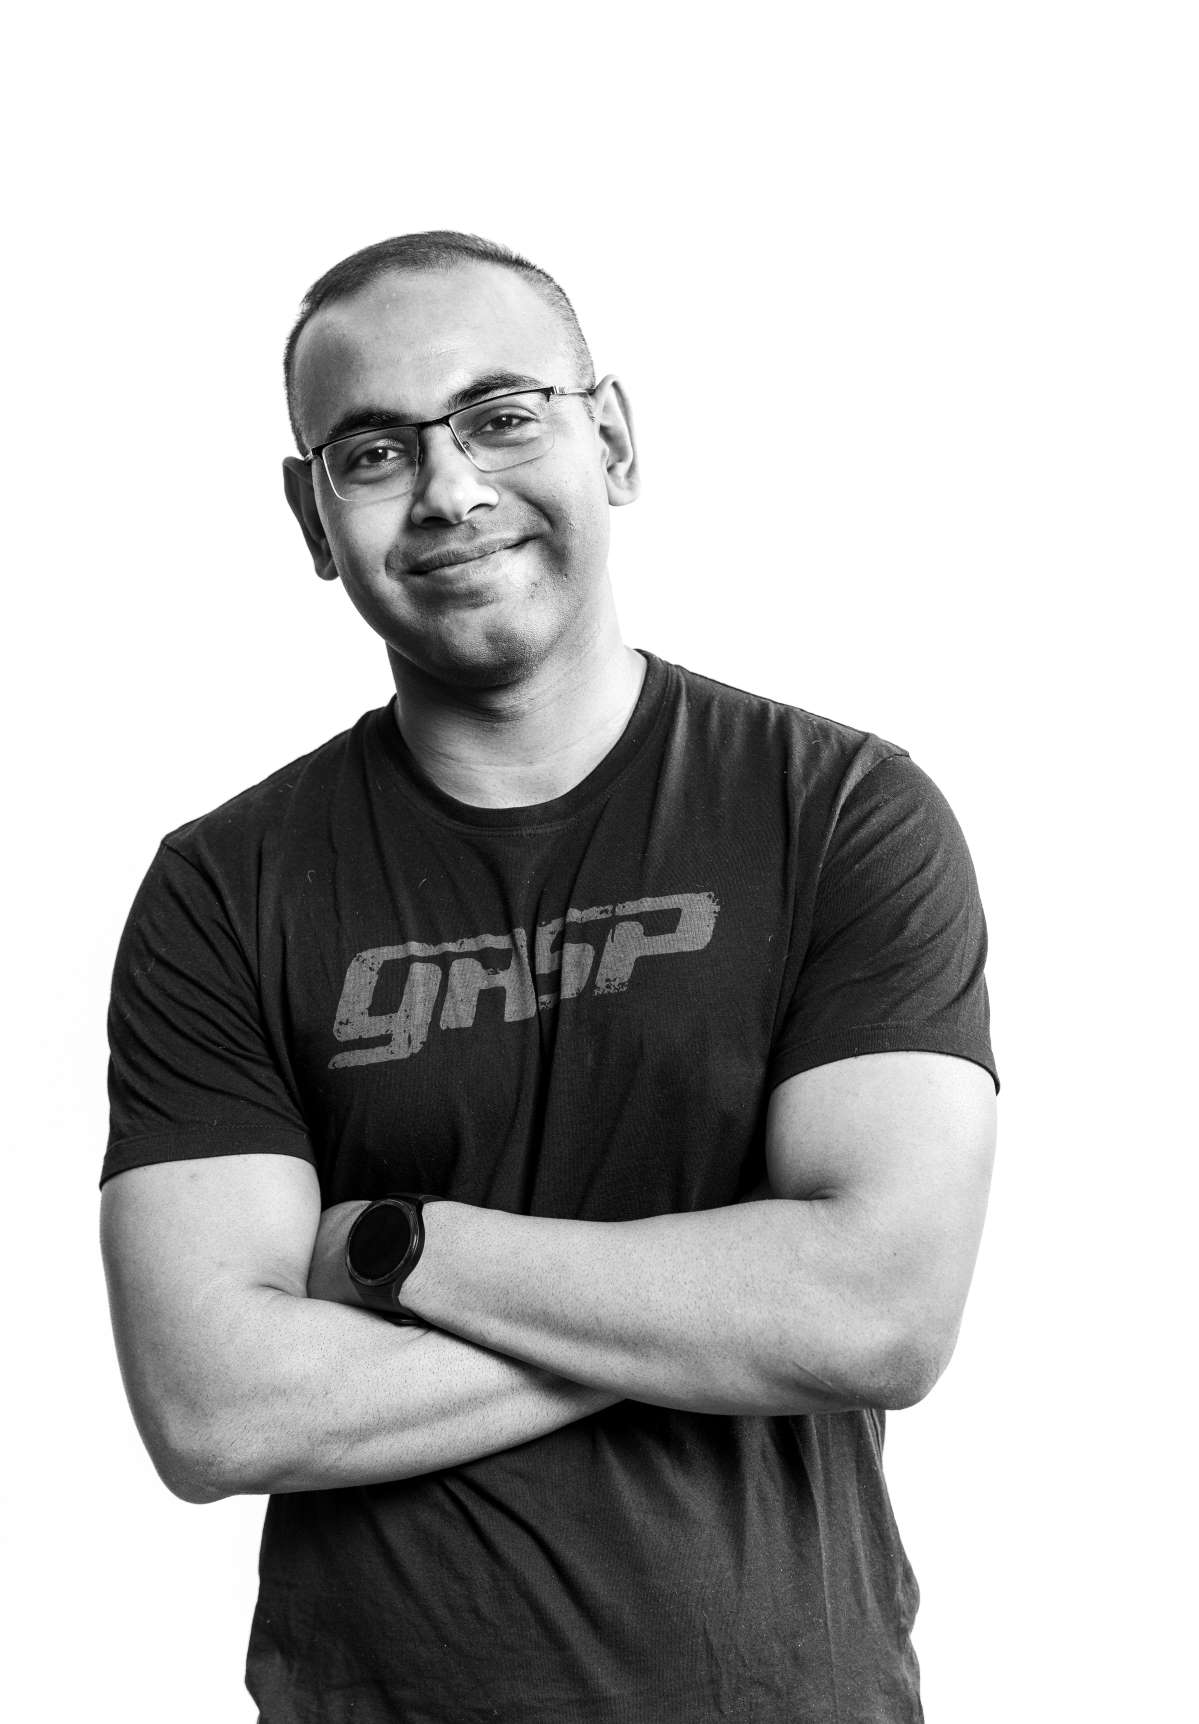
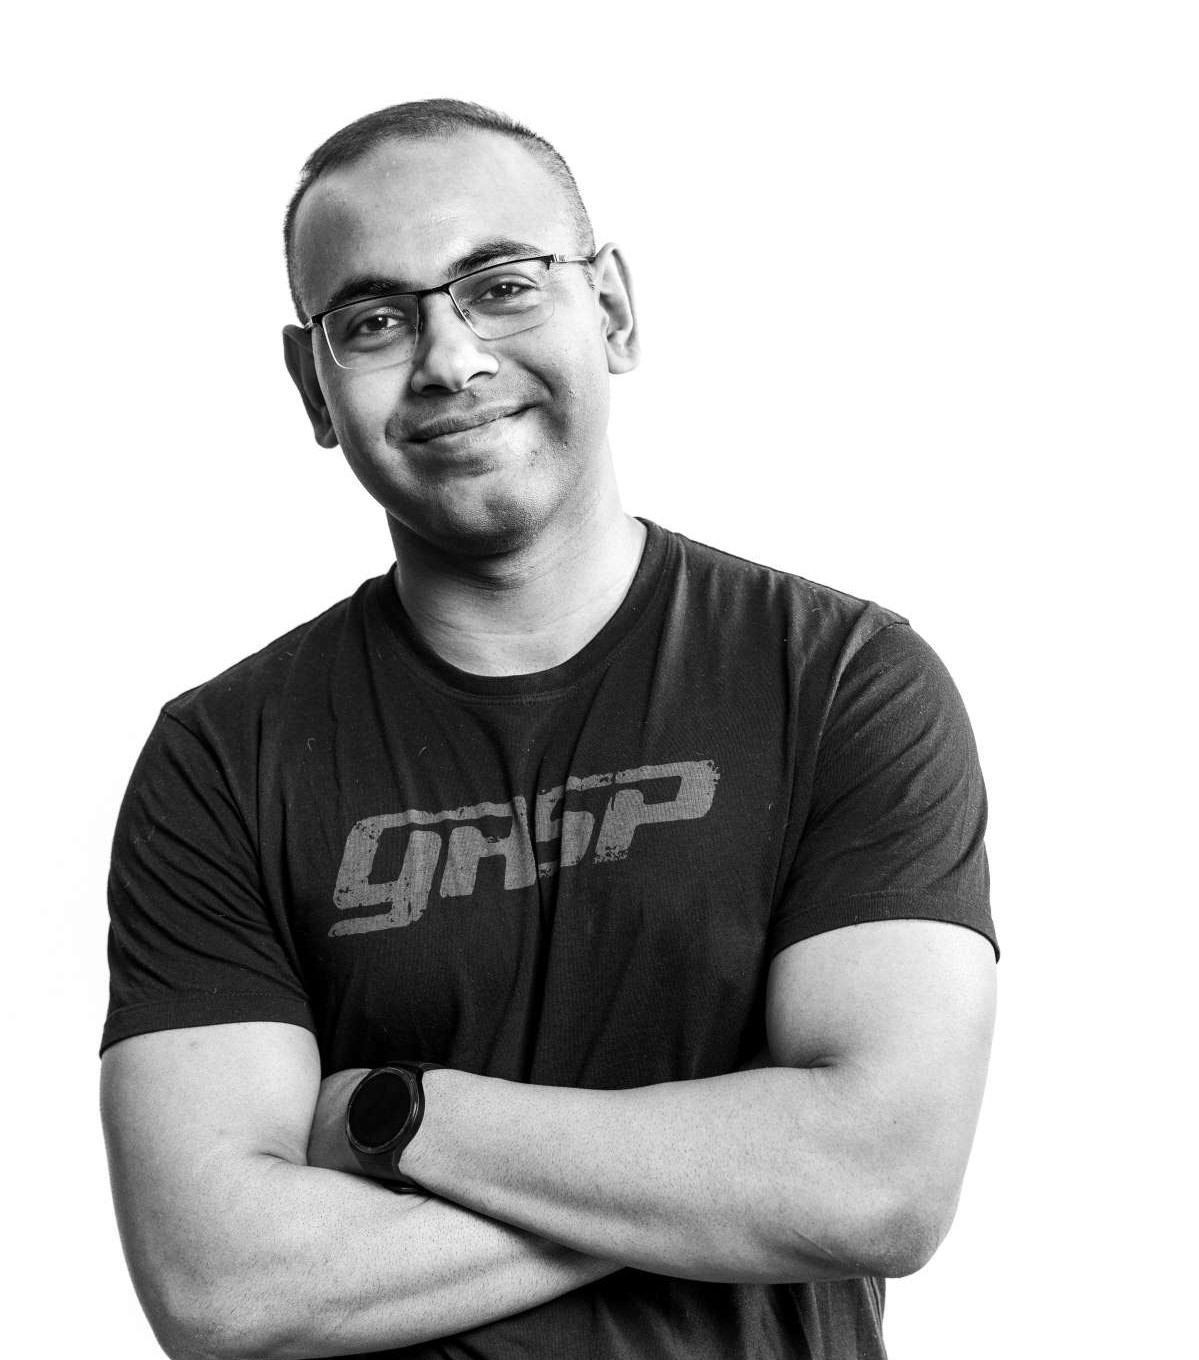
update about me image

diff --git a/app/components/Grid.tsx b/app/components/Grid.tsx
@@ -8,7 +8,7 @@ import {
   IconSignature,
   IconTableColumn,
 } from "@tabler/icons-react";
-import { motion } from "framer-motion";
+import { delay, motion } from "framer-motion";
 
 export function BentoGridThirdDemo() {
   return (
@@ -34,9 +34,9 @@ const SkeletonOne = () => {
       x: 0,
     },
     animate: {
-      x: 10,
-      rotate: 5,
+      x: 5,
       transition: {
+        delay: 0.2,
         duration: 0.2,
       },
     },
@@ -60,10 +60,13 @@ const SkeletonOne = () => {
       whileHover="animate"
       className="grid grid-cols-3 gap-x-4 h-full"
     >   
-
+        <motion.div variants={variants} className="col-span-1 w-full h-full relative overflow-hidden rounded-md">
+            <img src="/profile.jpg" alt="profile-image" className="absolute object-cover rounded-md object-top" />
+        </motion.div>
     </motion.div>
   );
 };
+
 const SkeletonTwo = () => {
   const variants = {
     initial: {
@@ -82,7 +85,7 @@ const SkeletonTwo = () => {
       },
     },
   };
-  const arr = new Array(6).fill(0);
+  const arr= ["html", "css", "javascript", "react", "Next Js", "Node Js"]
   return (
     <motion.div
       initial="initial"
@@ -90,19 +93,22 @@ const SkeletonTwo = () => {
       whileHover="hover"
       className="flex flex-1 w-full h-full min-h-[6rem] dark:bg-dot-white/[0.2] bg-dot-black/[0.2] flex-col space-y-2"
     >
-      {arr.map((_, i) => (
+      {arr.map(( item, index) => (
         <motion.div
-          key={"skelenton-two" + i}
+          key={"skelenton-two" + index}
           variants={variants}
           style={{
             maxWidth: Math.random() * (100 - 40) + 40 + "%",
           }}
           className="flex flex-row rounded-full border border-neutral-100 dark:border-white/[0.2] p-2  items-center space-x-2 bg-neutral-100 dark:bg-black w-full h-4"
-        ></motion.div>
+        >
+          {item}
+        </motion.div>
       ))}
     </motion.div>
   );
 };
+
 const SkeletonThree = () => {
   const variants = {
     initial: {
@@ -133,6 +139,7 @@ const SkeletonThree = () => {
     </motion.div>
   );
 };
+
 const SkeletonFour = () => {
   const first = {
     initial: {
@@ -194,6 +201,7 @@ const SkeletonFour = () => {
     </motion.div>
   );
 };
+
 const SkeletonFive = () => {
   const variants = {
     initial: {
@@ -245,17 +253,14 @@ const SkeletonFive = () => {
     </motion.div>
   );
 };
+
+
 const items = [
   {
     header: <SkeletonOne />,
     className: "md:col-span-2",
-    title : "Text Summarization",
-    description: (
-      <span className="text-sm">
-        Summarize your lengthy documents with AI technology.
-      </span>
-    ),
-  },
+    title : "About Me"  
+    },
   {
     title: "Automated Proofreading",
     description: (

diff --git a/app/components/ui/bento-grid.tsx b/app/components/ui/bento-grid.tsx
@@ -51,9 +51,6 @@ export const BentoGridItem = ({
 
       {img && <img src={img} className="w-full h-full object-fit rounded-xl absolute top-0 left-0 z-0" />}
 
-
-      {header}
-
       <div className="group-hover/bento:translate-x-2 transition duration-200 z-10">
         {icon}
         <div className="font-sans font-bold text-white mb-2 mt-2 ">
@@ -63,6 +60,7 @@ export const BentoGridItem = ({
           {description}
         </div>
       </div>
+      {header}
     </div>
   );
 };
